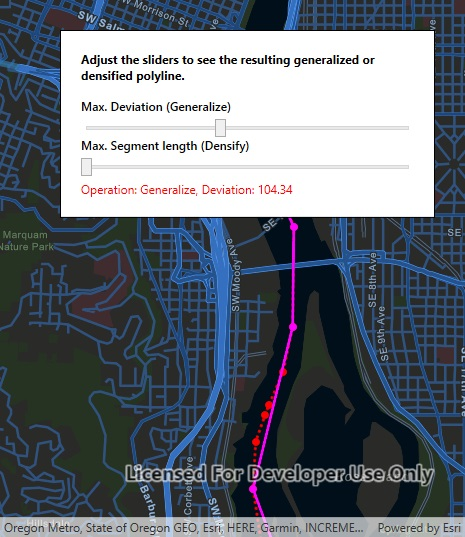
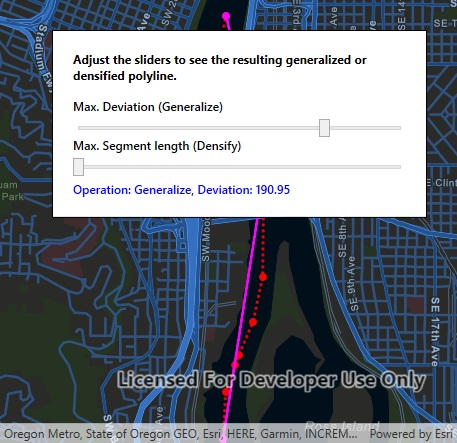
Changes per review

diff --git a/src/WPF/ArcGISRuntime.WPF.Viewer/Samples/Data/StatisticalQuery/StatisticalQuery.xaml b/src/WPF/ArcGISRuntime.WPF.Viewer/Samples/Data/StatisticalQuery/StatisticalQuery.xaml
@@ -23,7 +23,7 @@
                           HorizontalAlignment="Left" />
                 <CheckBox x:Name="OnlyBigCitiesCheckbox"
                           Grid.Row="0" Grid.Column="1"
-                          Content="Cities grater than 5M"
+                          Content="Cities greater than 5M"
                           HorizontalAlignment="Right" />
                 <Button x:Name="GetStatsButton"
                         Grid.Row="1" Grid.Column="0" Grid.ColumnSpan="2"

diff --git a/src/WPF/ArcGISRuntime.WPF.Viewer/Samples/GeometryEngine/DensifyAndGeneralize/DensifyAndGeneralize.xaml b/src/WPF/ArcGISRuntime.WPF.Viewer/Samples/GeometryEngine/DensifyAndGeneralize/DensifyAndGeneralize.xaml
@@ -35,8 +35,7 @@
                 <TextBlock x:Name="ResultLabel"
                            Grid.Row="5"
                            Text="Adjust a slider to start"
-                           TextWrapping="Wrap"
-                           Foreground="Red" />
+                           TextWrapping="Wrap" FontWeight="SemiBold" Foreground="Blue" />
             </Grid>
         </Border>
     </Grid>
